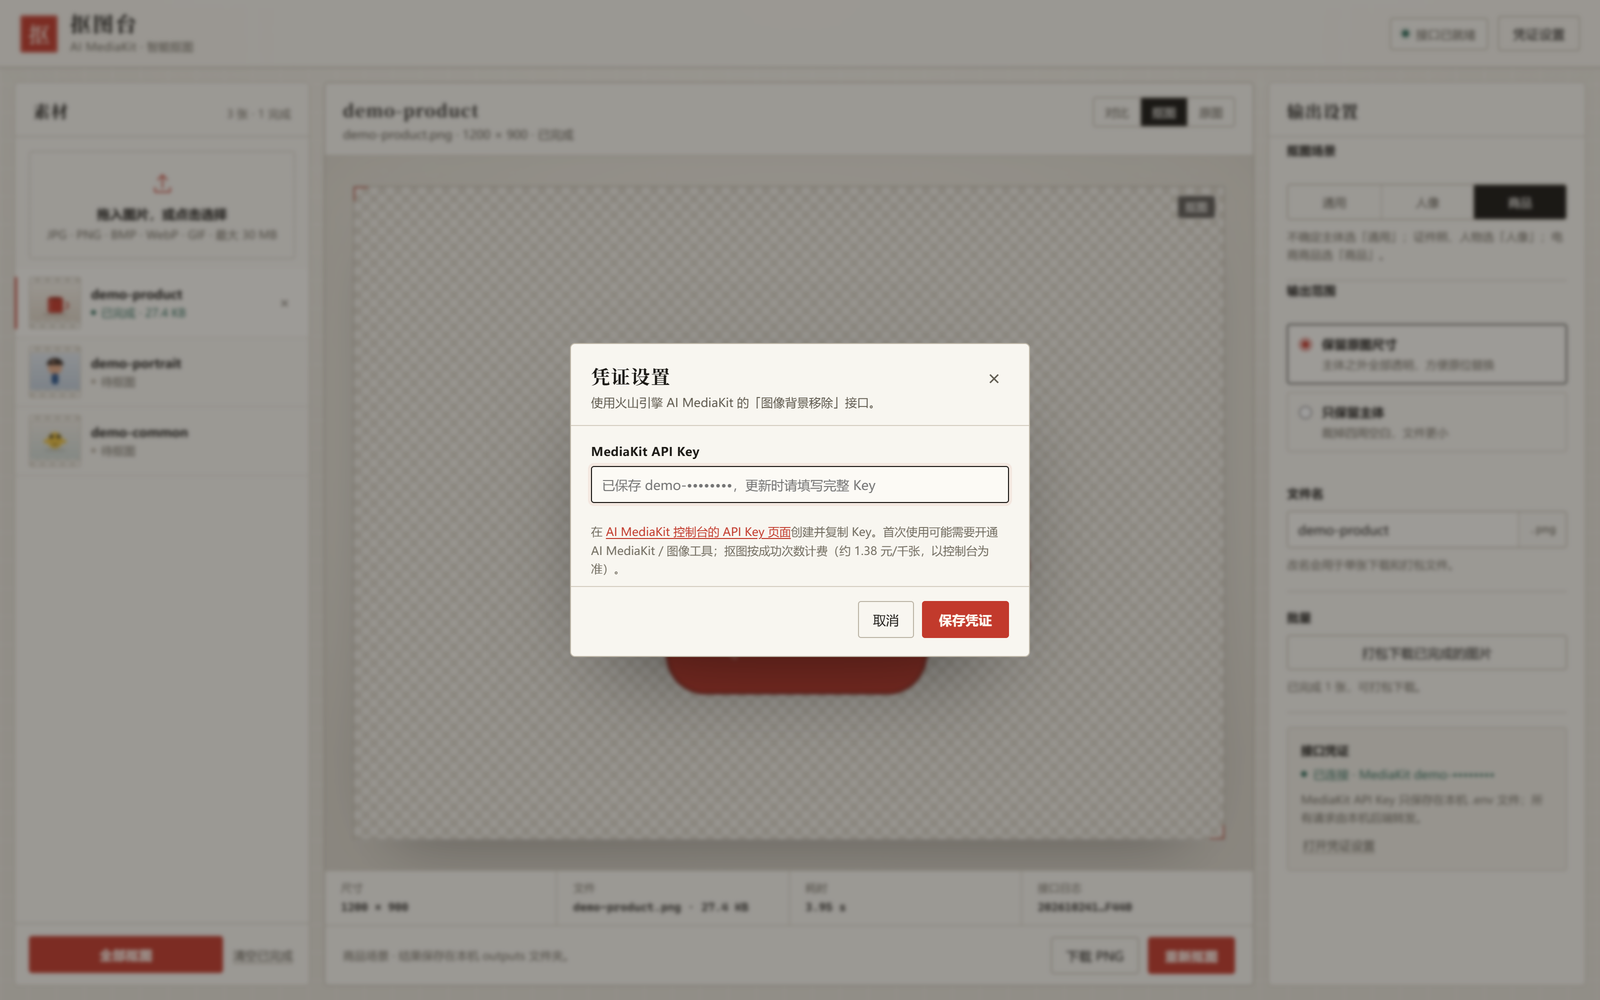
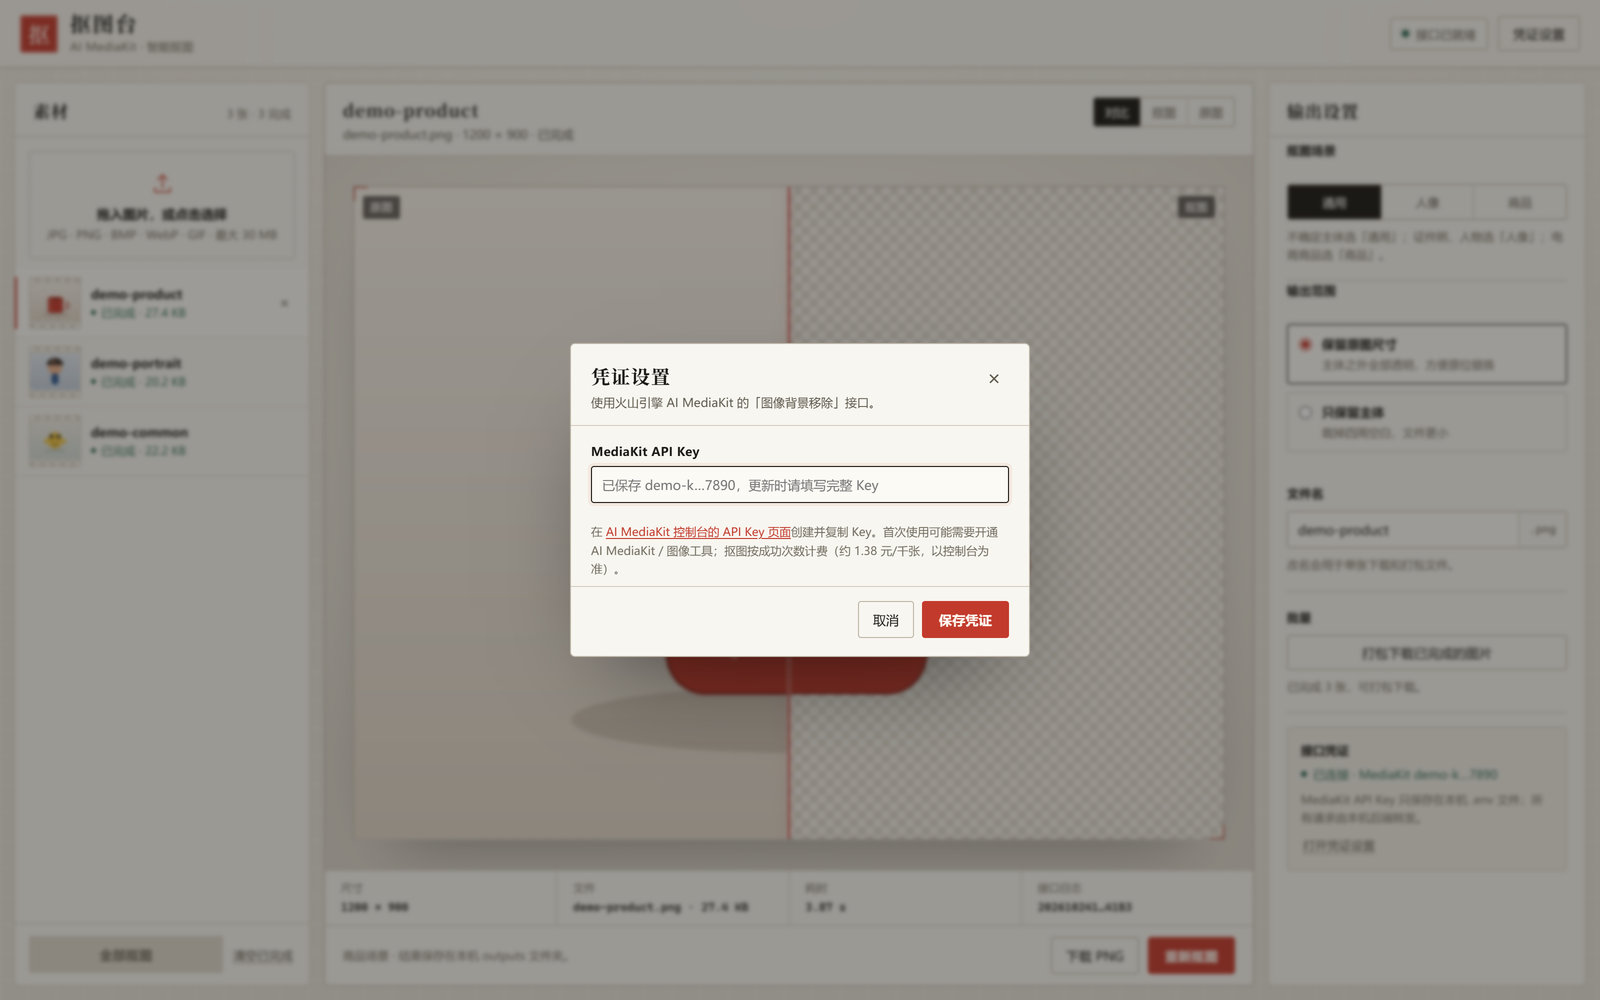
fix: reject blank cutout results and polish release docs
- Reject fully transparent upstream results instead of saving them
- Add blank-result unit and API integration tests (52 total)
- Re-capture README screenshots with a format-accurate fake mask
- Add engineering comparison, smoke-test data, changelog and release docs

diff --git a/tests/test_api.py b/tests/test_api.py
@@ -197,6 +197,20 @@ def test_cutout_rejects_bad_image(client, configured, fake_cutout):
     assert response.json()["error"]["code"] == "IMAGE_INVALID"
 
 
+def test_cutout_rejects_blank_upstream_result(client, configured, monkeypatch):
+    async def blank(*args, **kwargs):
+        image = Image.new("RGBA", (60, 40), (0, 0, 0, 0))
+        buffer = io.BytesIO()
+        image.save(buffer, "PNG")
+        return MediaKitResult(image_bytes=buffer.getvalue())
+
+    monkeypatch.setattr(app_module, "segment_image", blank)
+    response = post_cutout(client)
+    assert response.status_code == 502
+    assert response.json()["error"]["code"] == "UPSTREAM_BAD_IMAGE"
+    assert not list(app_module.OUTPUT_DIR.glob("*.png"))
+
+
 def test_mediakit_error_http_status_mapping(client, configured, monkeypatch):
     async def raise_auth(*args, **kwargs):
         raise MediaKitError("key bad", code="MEDIAKIT_AUTH", status_code=403)

diff --git a/image_utils.py b/image_utils.py
@@ -223,10 +223,13 @@ def normalize_result_image(
     if img.mode != "RGBA":
         img = img.convert("RGBA")
 
+    # 全透明结果通常意味着上游识别失败；不要把它当成成功结果写进 outputs
+    alpha_bbox = img.getchannel("A").getbbox()
+    if alpha_bbox is None:
+        raise ImageInputError("抠图接口返回了空白结果，请换一张图片重试")
+
     if crop_subject:
-        bbox = img.getchannel("A").getbbox()
-        if bbox:
-            img = img.crop(bbox)
+        img = img.crop(alpha_bbox)
 
     buffer = io.BytesIO()
     img.save(buffer, format="PNG", optimize=True)

diff --git a/tests/test_image_utils.py b/tests/test_image_utils.py
@@ -134,6 +134,15 @@ def test_normalize_result_can_crop_transparent_border():
     assert (full_w, full_h) == (100, 80)
 
 
+def test_normalize_result_rejects_blank_result():
+    image = Image.new("RGBA", (40, 30), (0, 0, 0, 0))
+    buffer = io.BytesIO()
+    image.save(buffer, "PNG")
+
+    with pytest.raises(ImageInputError):
+        normalize_result_image(buffer.getvalue())
+
+
 def test_normalize_result_rejects_garbage():
     with pytest.raises(ImageInputError):
         normalize_result_image(b"garbage")

diff --git a/README.md b/README.md
@@ -1,7 +1,7 @@
 <div align="center">
 
 <h1>✂ Cutout Studio · 抠图台</h1>
-<h3>本地优先的 AI 抠图工作台：批量、可控、可审计。</h3>
+<h3>本地优先的 AI 抠图工作台：批量、可控、可追溯。</h3>
 <p><strong>A local-first AI background-removal workbench powered by Volcengine AI MediaKit.</strong></p>
 <p>拖入图片，得到真正的 alpha 通道透明 PNG；凭证、原图和结果都留在你自己的机器上。</p>
 
@@ -9,7 +9,7 @@
 <img alt="Python 3.10–3.13" src="https://img.shields.io/badge/Python-3.10%E2%80%933.13-3776AB?logo=python&logoColor=white">
 <img alt="FastAPI" src="https://img.shields.io/badge/FastAPI-0.115%2B-009688?logo=fastapi&logoColor=white">
 <img alt="Volcengine AI MediaKit" src="https://img.shields.io/badge/Volcengine-AI%20MediaKit-1664FF">
-<img alt="Tests: 50 passed" src="https://img.shields.io/badge/Tests-50%20passed-0A9EDC?logo=pytest&logoColor=white">
+<img alt="Tests: 52 passed" src="https://img.shields.io/badge/Tests-52%20passed-0A9EDC?logo=pytest&logoColor=white">
 <img alt="Local-first" src="https://img.shields.io/badge/Local--first-127.0.0.1-2F6B58">
 <img alt="MIT License" src="https://img.shields.io/badge/License-MIT-2EA44F">
 <a href="https://github.com/jmlistening/ai-cutout-studio/actions/workflows/ci.yml"><img alt="CI" src="https://github.com/jmlistening/ai-cutout-studio/actions/workflows/ci.yml/badge.svg?branch=main"></a>
@@ -19,9 +19,9 @@
 
 ---
 
-**[项目概览](#-项目概览)** · **[功能一览](#-功能一览)** · **[系统架构](#-系统架构)** · **[工程难点](#-工程难点与解决方案)** · **[安全模型](#-安全与隐私模型)** · **[快速开始](#-快速开始)** · **[测试与 CI](#-测试与持续集成)** · **[工程设计](docs/ENGINEERING.md)** · **[安全策略](SECURITY.md)**
+**[项目概览](#-项目概览)** · **[功能一览](#-功能一览)** · **[系统架构](#-系统架构)** · **[工程难点](#-工程难点与解决方案)** · **[安全模型](#-安全与隐私模型)** · **[快速开始](#-快速开始)** · **[测试与 CI](#-测试与持续集成)** · **[工程设计](docs/ENGINEERING.md)** · **[更新记录](CHANGELOG.md)** · **[安全策略](SECURITY.md)**
 
-> **English TL;DR** — Cutout Studio is a local-first web workbench for AI background removal, built with FastAPI and the Volcengine AI MediaKit `remove-image-background` API. It covers the full media pipeline: input validation and normalization, presigned uploads, synchronous segmentation, alpha-PNG post-processing, a serial batch queue, a comparison slider and ZIP export. The API key never reaches the browser; the server binds to `127.0.0.1`, rejects cross-origin writes and sanitizes every user-controlled filename. 50 pytest tests cover the HTTP API, image pipeline, upstream error mapping and the frontend/HTML contract. MIT licensed.
+> **English TL;DR** — Cutout Studio is a local-first web workbench for AI background removal, built with FastAPI and the Volcengine AI MediaKit `remove-image-background` API. It covers the full media pipeline: input validation and normalization, presigned uploads, synchronous segmentation, alpha-PNG post-processing, a serial batch queue, a comparison slider and ZIP export. The API key never reaches the browser; the server binds to `127.0.0.1`, rejects cross-origin writes and sanitizes every user-controlled filename. 52 pytest tests cover the HTTP API, image pipeline, upstream error mapping and the frontend/HTML contract. MIT licensed.
 
 ## ✨ 项目概览
 
@@ -32,19 +32,19 @@
 它解决的不是“能不能抠”，而是“批量处理时能不能放心用”：
 
 - **真透明，不是近似图**：结果保留 alpha 通道，支持“保留原图尺寸”和“只保留主体”两种输出。
-- **本地优先**：服务只监听 `127.0.0.1`；API Key 只写进本机 `.env`，浏览器永远拿不到完整 Key。
+- **本地优先**：服务只监听 `127.0.0.1`；API Key 只写进本机 `.env`（或由进程环境变量提供），浏览器永远拿不到完整 Key。
 - **面向真实批量**：最多 50 张队列、逐张串行处理、单张重试、完成后 ZIP 打包。
 - **可解释的失败**：把上游的鉴权、未开通、欠费、限流、尺寸超限等错误映射成明确的中文提示，并保留 `request_id` / `task_id` 便于排查。
 - **零构建前端**：原生 HTML/CSS/JS，无 npm、无框架、无 CDN 依赖，启动即用。
-- **工程可验证**：50 个 pytest 测试 + GitHub Actions 多版本矩阵 + MIT License。
+- **工程可验证**：pytest + GitHub Actions 多版本矩阵 + MIT License。
 
 ### 为什么不是“豆包 API”？
 
 这是一个常见的误解。豆包 App 的抠图是产品内功能；开发者可调用的是火山引擎的媒体处理能力。AI MediaKit 的抠图接口按成功处理次数计费（官方计费页当前约 **1.38 元/千次**，即约 **0.00138 元/张**，以控制台账单为准），本项目在 README 和界面里都明确标注了这一点，不做“免费无限抠图”的暗示。
 
-## 📸 真实运行截图
+## 📸 界面截图
 
-> 截图取自项目在 Windows 本地运行的真实界面。演示素材是**程序生成的合成图片**（`docs/images/demo-*.png`），不包含任何个人照片。
+> 截图取自项目在 Windows 本地运行的真实界面。演示素材是**程序生成的合成图片**（`docs/images/demo-*.png`），凭证掩码为演示用假值（`demo-k…7890`），不包含任何个人照片或真实 Key。
 
 <p align="center">
   <img src="docs/images/ui-compare.png" alt="抠图台：原图与透明 PNG 的拖动对比界面" width="100%">
@@ -52,9 +52,9 @@
 
 <p align="center"><sub>拖动中线对比原图与抠图结果；右侧可切换场景、输出范围、文件名和批量下载。</sub></p>
 
-| 批量队列：3 张素材 | 透明结果：棋盘格预览 |
+| 批量队列：3 张已完成 | 透明结果：棋盘格预览 |
 | :---: | :---: |
-| <img src="docs/images/ui-queue.png" alt="批量素材队列界面" width="100%"> | <img src="docs/images/ui-result.png" alt="透明 PNG 结果预览界面" width="100%"> |
+| <img src="docs/images/ui-batch.png" alt="批量抠图完成后的素材队列界面" width="100%"> | <img src="docs/images/ui-result.png" alt="透明 PNG 结果预览界面" width="100%"> |
 
 <details>
 <summary><b>展开查看：空状态与凭证设置</b></summary>
@@ -93,22 +93,22 @@
 | 测试 | **pytest + httpx.MockTransport** | 全链路 mock，不依赖真实 Key 与外网 |
 | CI | **GitHub Actions** | Ubuntu / Windows × Python 3.10–3.13 矩阵 |
 
-## 🏗 系统架构
+## 🧭 系统架构
 
 项目刻意保持**单进程、无数据库、零构建**：图片是短生命周期产物，用文件系统保存即可；没有账号体系，也就不需要会话与迁移。
 
 ```mermaid
 flowchart LR
-    B["浏览器<br/>拖拽 / 粘贴 / 队列"] -->|multipart + X-Cutout-Client| A["FastAPI<br/>app.py"]
+    B["浏览器<br/>拖拽 / 粘贴 / 队列"] -->|multipart| A["FastAPI<br/>app.py"]
     A -->|CPU 密集操作| T["线程池<br/>run_in_threadpool"]
     T --> U["image_utils<br/>校验 · EXIF · 缩放 · 编码"]
     A --> C["mediakit_client<br/>四步调用链"]
     C -->|1 申请上传地址| M["火山引擎<br/>AI MediaKit"]
     C -->|2 PUT 预签名地址| S["对象存储"]
-    C -->|3 remove-image-background| M
+    C -->|3 智能抠图| M
     C -->|4 下载结果| S
-    A -->|RGBA 归一化 / alpha 裁剪| O["outputs/*.png"]
-    A -->|JSON: id / url / 元数据| B
+    A -->|alpha 归一化| O["outputs/*.png"]
+    A -->|JSON 元数据| B
 ```
 
 **一次抠图请求的完整时序：**
@@ -147,7 +147,7 @@ ai-cutout-studio/
 │   ├── index.html              # 工作台结构
 │   ├── app.js                  # 队列状态机、上传、对比滑块、导出
 │   └── style.css               # 纸张 / 裁切台视觉系统
-├── tests/                      # 50 个 pytest 测试
+├── tests/                      # 52 个 pytest 测试
 │   ├── test_api.py             # HTTP 路由与安全边界
 │   ├── test_mediakit.py        # MockTransport 全链路
 │   ├── test_image_utils.py     # 图像归一化边界
@@ -160,6 +160,7 @@ ai-cutout-studio/
 ├── requirements.txt
 ├── requirements-dev.txt
 ├── 启动.bat                     # Windows 一键启动
+├── CHANGELOG.md
 ├── SECURITY.md
 └── LICENSE
 ```
@@ -184,7 +185,7 @@ MediaKit 的抠图接口不接受直接上传的文件流，而是要求：
 - 上传对象存储时**不能**带 MediaKit 的 `Authorization`，只带预签名头；这个边界在测试里被显式断言。
 - 每一步的超时、网络错误、HTTP 错误和业务错误都映射成不同的 `MediaKitError` code。
 
-**取舍：** 同步接口意味着单张处理时间受上游影响（本项目默认超时 180 秒）。没有做异步任务队列，因为本地单用户场景下，串行 + 明确进度比引入 Redis/Celery 更可靠。
+**边界：** 同步接口意味着单张处理时间受上游影响（本项目默认超时 180 秒）。没有做异步任务队列，因为本地单用户场景下，串行 + 明确进度比引入 Redis/Celery 更可靠。
 
 ### 02 · 上传前的图像归一化：让“能抠”变成“稳定能抠”
 
@@ -201,7 +202,7 @@ MediaKit 的抠图接口不接受直接上传的文件流，而是要求：
 | 兜底缩放 | 仍超限则按 0.85 迭代缩小 | 极端高熵图片也能收敛 |
 | 快速通道 | 未旋转、未缩放、格式已知、≤ 28 MB 时原样发送 | 大多数图片零重编码，节省 CPU 和时间 |
 
-**取舍：** 这是“尽量不改变原图”与“保证上游一定收得下”之间的折中。透明 PNG 始终保留 alpha；不透明图才允许转 JPEG。
+**权衡：** 这是“尽量不改变原图”与“保证上游一定收得下”之间的折中。透明 PNG 始终保留 alpha；不透明图才允许转 JPEG。
 
 ### 03 · 结果后处理：alpha 通道才是抠图的“真值”
 
@@ -215,7 +216,7 @@ if bbox:
 
 一个容易忽略的细节：**通用场景不传 `need_crop_background`**。该参数只对人像/商品生效；通用场景传了可能触发参数校验问题，所以本项目对通用场景改为本地 alpha 裁剪兜底。这样既保持上游请求干净，又保证“只保留主体”的语义一致。
 
-**取舍：** 本地裁剪基于完全透明的像素边界，不做羽化或语义分割；对于半透明边缘，包围盒可能略大于视觉主体。
+**边界：** 本地裁剪基于完全透明的像素边界，不做羽化或语义分割；对于半透明边缘，包围盒可能略大于视觉主体。
 
 ### 04 · 失败可解释：把上游错误翻译成用户能行动的信息
 
@@ -232,6 +233,7 @@ if bbox:
 | `MEDIAKIT_RATE_LIMIT` | 429 | 请求太频繁，稍后再试 |
 | `MEDIAKIT_BAD_IMAGE` | 422 | 图片尺寸或体积超限 |
 | `MEDIAKIT_TIMEOUT` | 504 | 上游超时 |
+| 本地空白结果校验 | 502 | 上游返回全透明图片，结果不写入 `outputs/` |
 | 其他上游错误 | 502 | 抠图服务返回错误 |
 
 同时保留 `request_id` 与 `task_id`，在界面的“接口日志”里展示，方便对照火山引擎控制台排查。
@@ -261,13 +263,13 @@ if bbox:
 - Blob URL 生命周期：移除素材、清空队列、页面卸载时调用 `revokeObjectURL`，避免内存泄漏；
 - 参数持久化：只把 `scene` / `scope` 存进 `localStorage`，不存图片、不存 Key。
 
-**取舍：** 没有引入 React/Vue，是因为这个界面只有一个页面、一个队列和三种视图；零构建带来的启动速度和可审计性，比组件化收益更大。
+**权衡：** 没有引入 React/Vue，是因为这个界面只有一个页面、一个队列和三种视图；零构建带来的启动速度和依赖可控性，比组件化收益更大。
 
 ## 🔒 安全与隐私模型
 
 | 资产 / 威胁 | 处理方式 |
 | --- | --- |
-| MediaKit API Key | 只保存在本机 `.env`；后端返回给浏览器的只有掩码（如 `demo-••••••••`） |
+| MediaKit API Key | 只保存在本机 `.env`（也可用环境变量覆盖）；后端返回给浏览器的只有掩码（如 `demo-k…7890`） |
 | 浏览器窃取 Key | 没有任何接口返回完整 Key；设置接口只接受写入，不回读 |
 | 恶意网页跨站调用 | 仅监听 `127.0.0.1`；Origin 白名单；`X-Cutout-Client` 自定义头 |
 | 路径穿越 | 结果 ID 必须是 32 位十六进制；ZIP 只允许已存在的输出文件 |
@@ -376,11 +378,11 @@ python -m pip install -r requirements-dev.txt
 python -m pytest -q
 ```
 
-当前 **50 个测试全部通过**（Python 3.12.5 本地验证），覆盖：
+当前 **52 个测试全部通过**（Python 3.12.5 本地验证），覆盖：
 
 - **HTTP 层**：页面、状态、凭证保存、跨站拒绝、路径穿越、ZIP 去重、错误状态映射；
 - **上游链路**：用 `httpx.MockTransport` 模拟申请上传地址 → PUT → 抠图 → 下载的完整四步，断言请求顺序、鉴权头和 body；
-- **图像管线**：EXIF 旋转、GIF 首帧、透明/不透明编码、场景限缩、alpha 裁剪、垃圾数据拒绝；
+- **图像管线**：EXIF 旋转、GIF 首帧、透明/不透明编码、场景限缩、alpha 裁剪、空白结果拒绝、垃圾数据拒绝；
 - **配置层**：UTF-8 BOM、GBK、环境变量覆盖、原子保存、Key 掩码；
 - **前端契约**：`app.js` 引用的元素 ID 必须存在于 HTML、静态资源必须存在、三种视图必须齐全、前端文件不得含裸控制字符。
 
@@ -392,6 +394,18 @@ python -m pytest -q
 
 生成脚本没有提交到仓库——这些图片只作为静态演示资产，避免把一次性截图工具混入运行时依赖。
 
+### 一次真实冒烟测试
+
+2026-10-24 在 Windows 11 / Python 3.12.5 上，用这 3 张合成图各调用一次真实 MediaKit 接口（约 0.004 元）：
+
+| 素材 | 场景 | 耗时 | 输出 |
+| --- | --- | ---: | --- |
+| `demo-product.png` | `product` | 3.87 s | 1200 × 900 · 27.4 KB |
+| `demo-portrait.png` | `general` | 3.39 s | 1200 × 900 · 20.2 KB |
+| `demo-common.png` | `general` | 3.55 s | 1200 × 900 · 22.2 KB |
+
+> 这是单机、单次观测，不构成性能基准；延迟取决于网络、图片尺寸和上游排队情况。合成人物剪影使用 `general` 场景，真实人像素材应使用 `human` 场景。
+
 ## ⚠ 已知边界与取舍
 
 - **同步接口**：单张处理受上游延迟影响；没有异步任务队列、断点续传或后台队列。
@@ -401,6 +415,8 @@ python -m pytest -q
 - **文件名清洗是有损的**：非法字符会被删除，而不是转义；极长名称会截断到 80 字符。
 - **裁剪基于 alpha 包围盒**：不做羽化、不做语义主体检测；半透明边缘可能让包围盒略大。
 - **成本与配额由上游决定**：计费、免费额度、限流策略以火山引擎控制台为准，本项目不做保证。
+- **不做自动重试**：失败后由用户手动重试；每次重试都会重新调用上游，可能重复计费。这样做是为了避免在余额不足或参数错误时产生不可控的重复扣费。
+- **空白结果会被拒绝**：上游返回全透明图片时以 502 失败返回，不写入 `outputs/`，避免把“识别失败”当成成功结果。
 
 ## 🗺 Roadmap
 

diff --git a/docs/ENGINEERING.md b/docs/ENGINEERING.md
@@ -114,6 +114,22 @@
 
 `app.py` 的异常处理器再把业务 code 映射为对外 HTTP 状态，前端只根据 `response.ok` 和 `error.message` 展示，不依赖内部 code。
 
+### 5.1 本地空白结果校验
+
+上游 HTTP 200 不代表结果有效：模型可能返回一张全透明图片。`normalize_result_image()` 在统一转 RGBA 后检查 alpha 通道的包围盒：
+
+```python
+alpha_bbox = img.getchannel("A").getbbox()
+if alpha_bbox is None:
+    raise ImageInputError("抠图接口返回了空白结果，请换一张图片重试")
+```
+
+`app.py` 会把它映射成 502 `UPSTREAM_BAD_IMAGE`，并且**不会写入 `outputs/`**。对应的测试是 `test_normalize_result_rejects_blank_result`。
+
+### 5.2 重试策略
+
+本项目**不做自动重试**。原因是上游按成功处理次数计费，自动重试会在余额不足、参数错误或上游抖动时产生不可控的重复扣费。失败项由用户在界面上手动重试；每次重试都是一次新的上游调用。这个取舍在 README 的“已知边界”里明确写出。
+
 ## 6. 前端状态机
 
 ```text
@@ -201,6 +217,8 @@
 
 **并发特征：** 单进程、单事件循环；图像 CPU 工作在线程池，上游请求异步；批量处理在前端串行。这是为“本地单用户”设计的，不是高并发服务。
 
+**实测样本：** 2026-10-24 在 Windows 11 / Python 3.12.5 上用 3 张合成演示图各调用一次真实 MediaKit 接口，单张耗时约 3–5 秒（含申请上传地址、PUT、抠图、下载四步）。这只是冒烟观测，不是性能基准；延迟取决于网络、图片尺寸和上游排队情况。
+
 ## 10. 替代方案与取舍
 
 ### 10.1 官方 SDK vs 手写 httpx
@@ -222,6 +240,22 @@
 ### 10.5 本地裁剪 vs 上游裁剪
 
 **选择：混合。** 人像/商品把 `need_crop_background` 传给上游；通用场景不传，改在本地按 alpha bbox 裁剪。这样既避免通用场景的参数校验问题，又保证三种场景的“只保留主体”语义一致。
+
+### 10.6 云 API vs 本地模型
+
+这是面试里最容易被追问的选型问题。下面是比较维度，不是本仓库的基准测试；实际效果取决于素材、模型版本和硬件：
+
+| 方案 | 发丝 / 复杂边缘 | 离线 | 单张延迟 | 成本 | 图片是否出本机 | 部署复杂度 |
+| --- | --- | --- | --- | --- | --- | --- |
+| **火山引擎 AI MediaKit** | 强 | 否 | 约 3–5 秒（网络） | 按成功次数计费 | 是 | 低（API Key） |
+| rembg / U2Net | 中 | 是 | CPU 秒级 / GPU 更快 | 0 | 否 | 中（模型与依赖） |
+| BiRefNet 等新模型 | 强 | 是 | 建议 GPU | 0（硬件成本） | 否 | 高（GPU / 权重） |
+| 浏览器端 ONNX | 中 | 是 | 取决于设备 | 0 | 否 | 中（模型体积 / 兼容性） |
+| remove.bg 等 SaaS | 强 | 否 | 网络 | 按张计费 | 是 | 低 |
+
+**选择 MediaKit 的真实理由：** 开发机没有可用 GPU；发丝和商品边缘的质量比纯 CPU 的 U2Net 更稳定；按次计费适合低频批量；不需要维护模型权重和推理环境。代价是图片必须出本机，且依赖网络与上游配额。
+
+**可替换性：** `mediakit_client.segment_image()` 是适配器边界。如果以后换成本地模型，只需要保持 `PreparedImage` 输入和 `MediaKitResult` 输出，`app.py` 与前端不用改。这是当前分层最重要的收益之一。
 
 ## 11. 故障排查 Playbook
 

diff --git a/CHANGELOG.md b/CHANGELOG.md
@@ -1,0 +1,27 @@
+# Changelog
+
+本项目遵循 [Semantic Versioning](https://semver.org/)。日期使用 YYYY-MM-DD。
+
+## 1.2.0 — 2026-10-24
+
+首次公开发布。
+
+### Added
+
+- 本地优先的 FastAPI 工作台：拖拽 / 粘贴上传、批量队列、三视图对比、单张与 ZIP 下载。
+- 火山引擎 AI MediaKit 四步调用链：申请上传地址 → 预签名 PUT → 同步抠图 → 下载结果。
+- 上传前图像归一化：EXIF 方向、GIF 首帧、场景限缩、迭代压缩、60 MP 解码保护。
+- 结果后处理：统一 RGBA PNG、按 alpha 包围盒裁剪、空白结果拒绝。
+- 通用 / 人像 / 商品三种场景；保留原图尺寸或只保留主体。
+- 本地安全模型：`127.0.0.1` 绑定、Origin 校验、`X-Cutout-Client` 头、32 位十六进制文件 ID、文件名清洗与 ZIP 去重。
+- 凭证管理：`.env` 原子写入、Key 掩码、无需重启；支持环境变量覆盖。
+- 52 个 pytest 测试，覆盖 HTTP 层、上游全链路 mock、图像管线、配置与前端静态契约。
+- GitHub Actions：Ubuntu / Windows × Python 3.10–3.13 矩阵。
+- README 界面截图、Mermaid 架构图、工程设计说明、安全策略与 MIT License。
+
+### Known limitations
+
+- 同步接口，单张处理受上游延迟影响；没有异步任务队列。
+- 单机单用户，不适合直接暴露到公网。
+- 不做自动重试；手动重试会重新计费。
+- 结果只保存在本机 `outputs/`，不做加密、过期清理或数据库索引。
